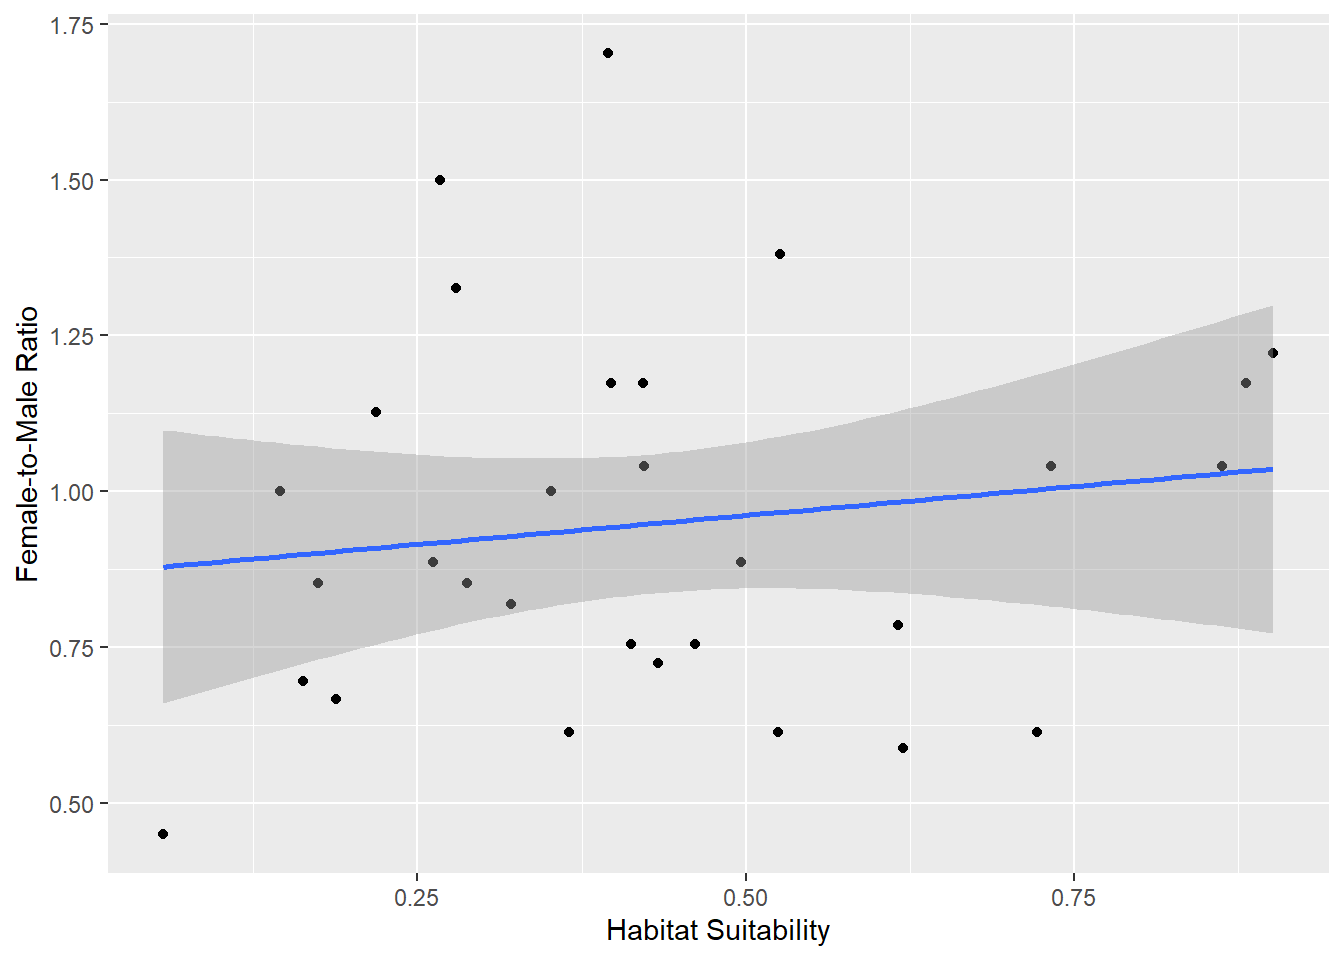
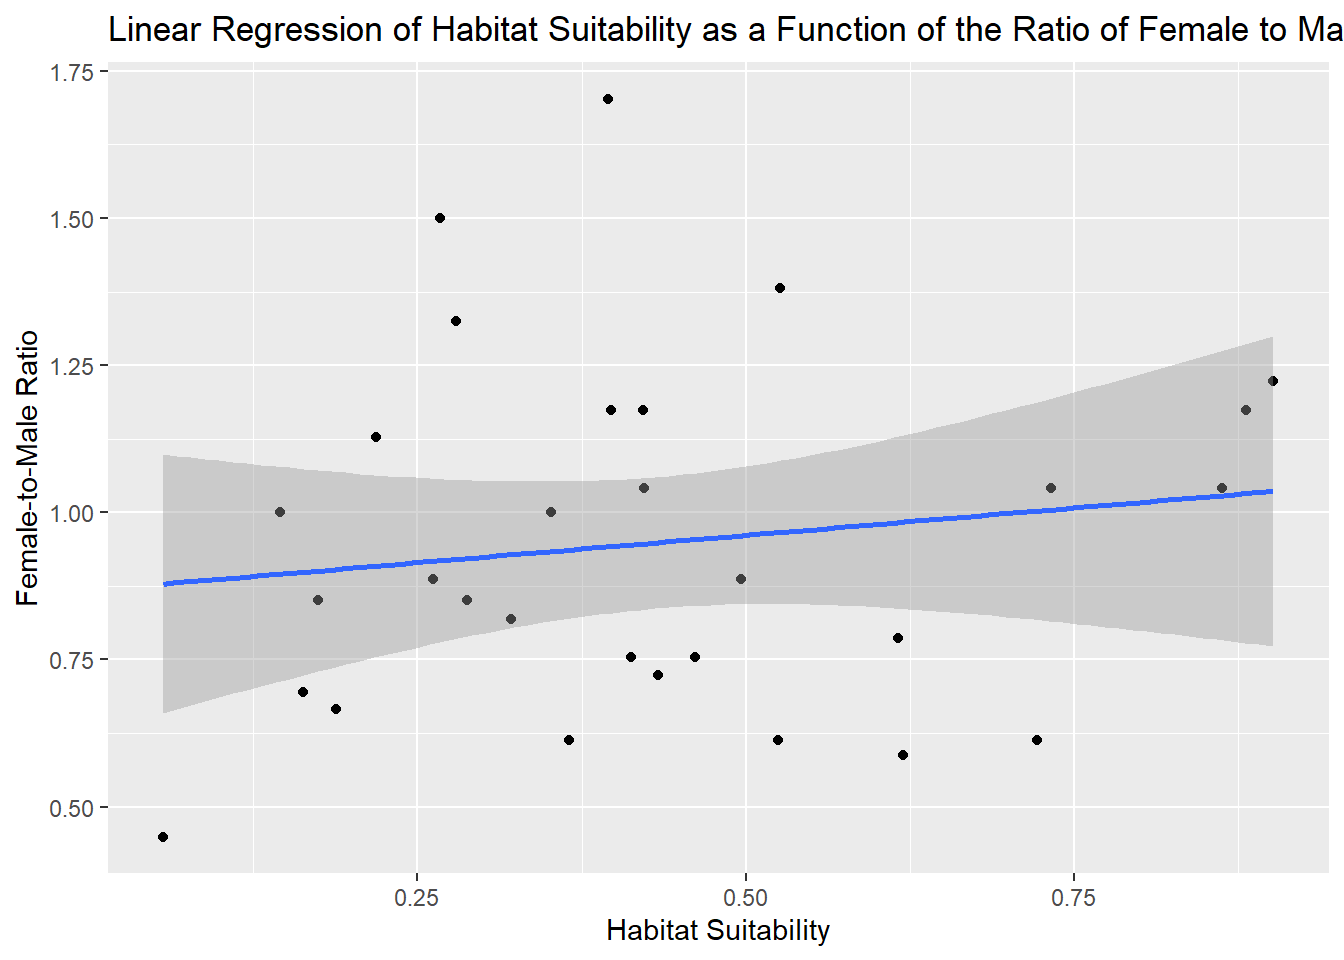
everything renders

diff --git a/docs/nowak_543final.html b/docs/nowak_543final.html
@@ -350,6 +350,34 @@ F-statistic: 58.23 on 7 and 2992 DF,  p-value: &lt; 2.2e-16</code></pre>
 <pre><code>[1] -0.02758304</code></pre>
 </div>
 </div>
+<div class="cell">
+<div class="cell-output cell-output-stderr">
+<pre><code>`geom_smooth()` using formula = 'y ~ x'</code></pre>
+</div>
+<div class="cell-output-display">
+<div>
+<figure class="figure">
+<p><img src="nowak_543final_files/figure-html/unnamed-chunk-9-1.png" class="img-fluid figure-img" width="672"></p>
+</figure>
+</div>
+</div>
+<div class="cell-output-display">
+<div>
+<figure class="figure">
+<p><img src="nowak_543final_files/figure-html/unnamed-chunk-9-2.png" class="img-fluid figure-img" width="672"></p>
+</figure>
+</div>
+</div>
+</div>
+<div class="cell">
+<div class="cell-output-display">
+<div>
+<figure class="figure">
+<p><img src="nowak_543final_files/figure-html/unnamed-chunk-10-1.png" class="img-fluid figure-img" width="672"></p>
+</figure>
+</div>
+</div>
+</div>
 
 </main>
 <!-- /main column -->
